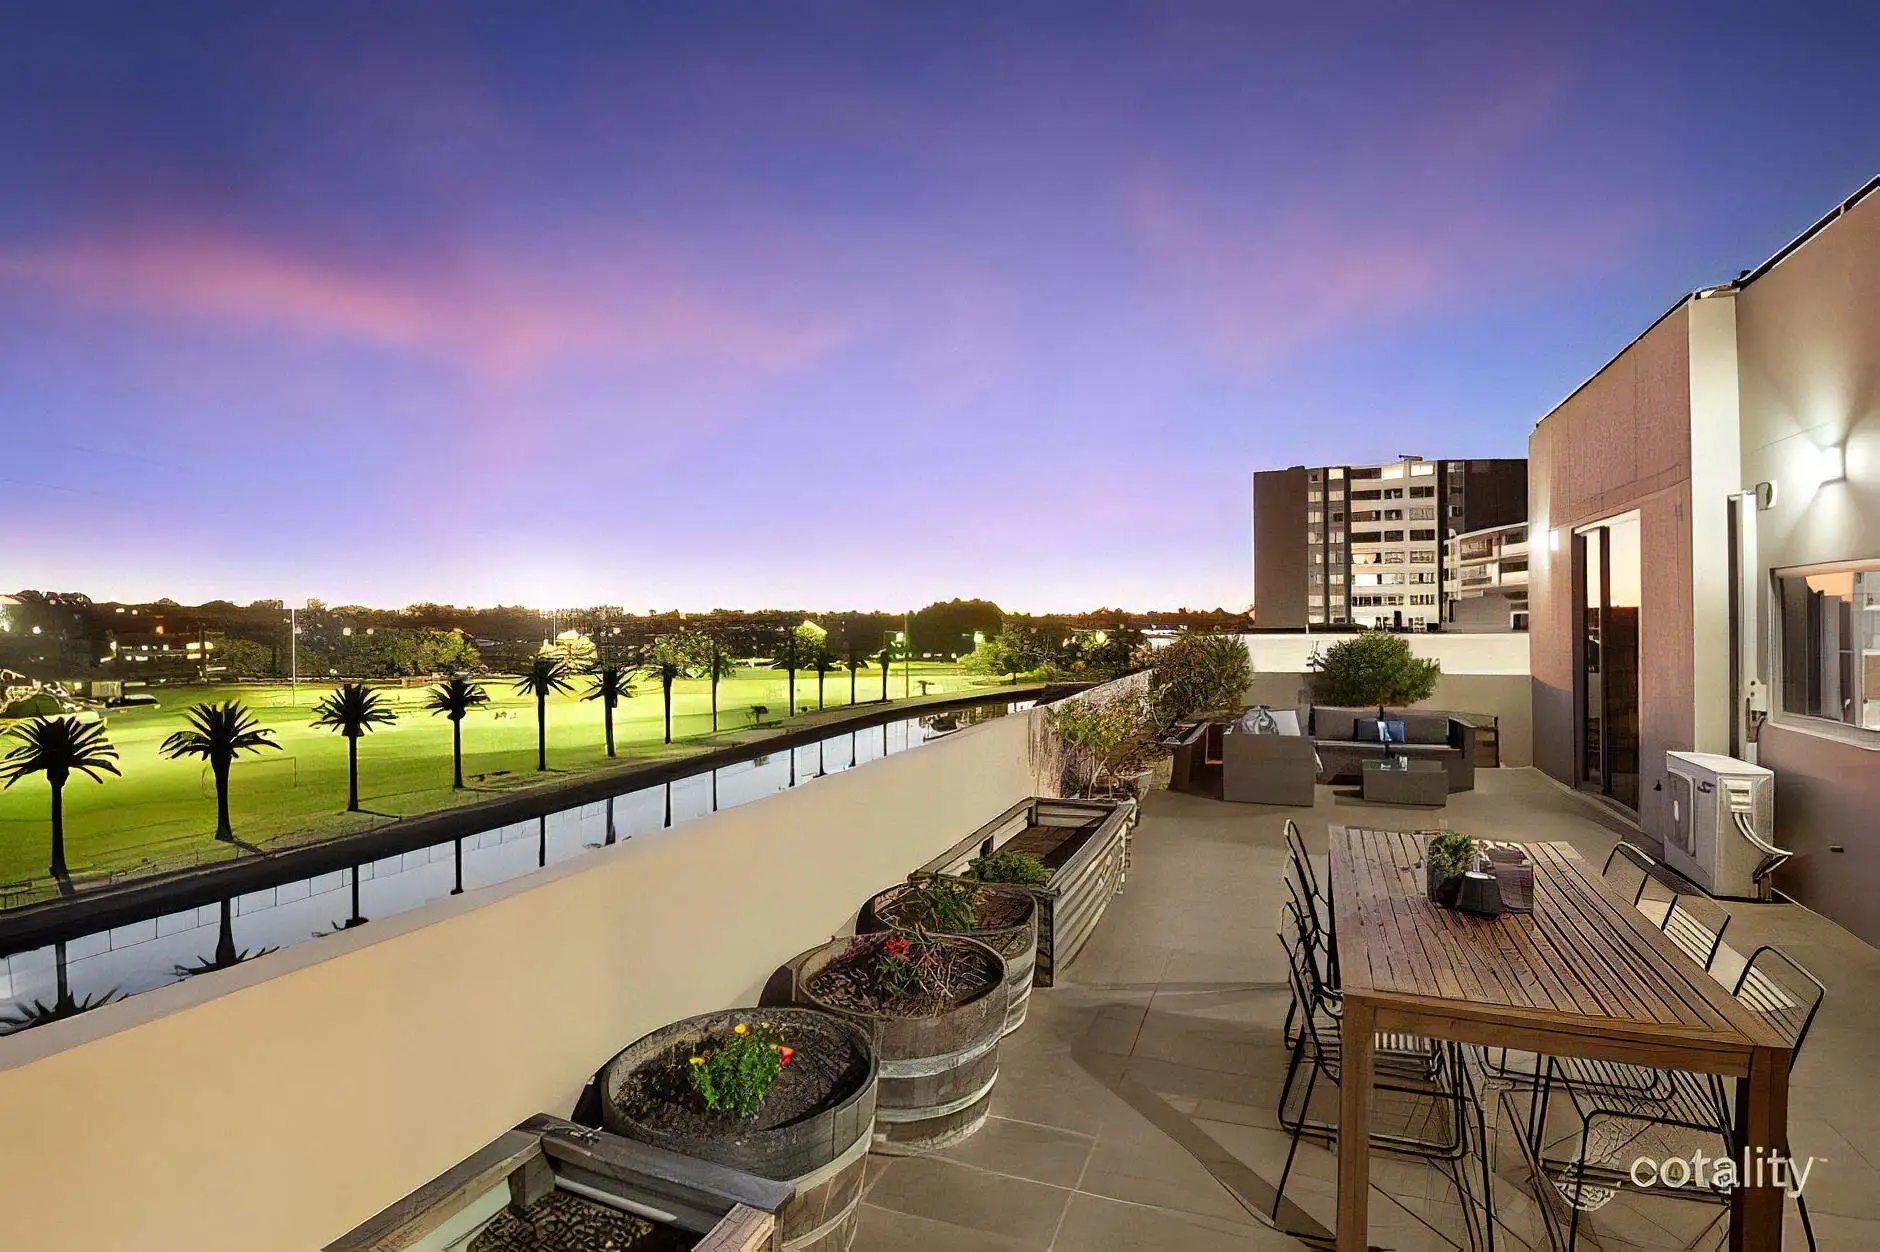
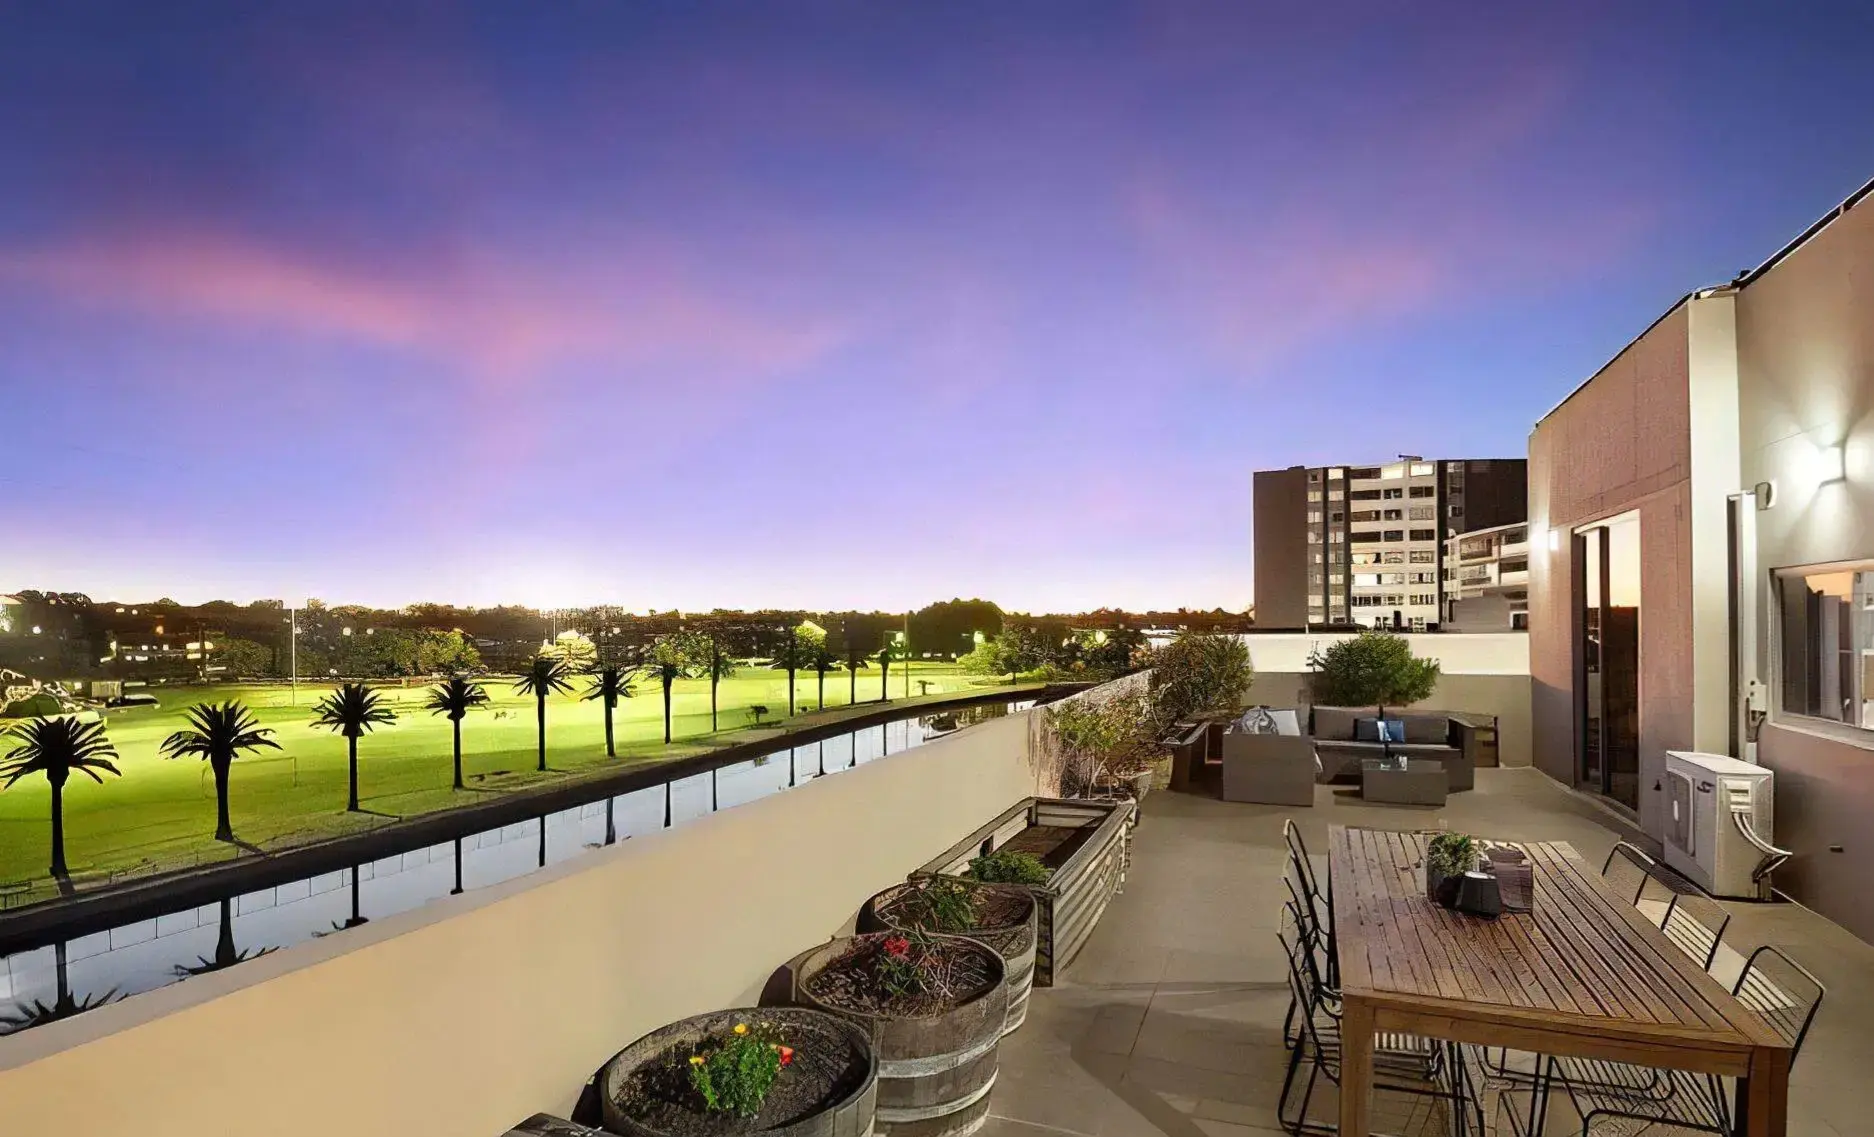
Change images, Remove watermark and remove extra service text

diff --git a/src/components/ContactHero.css b/src/components/ContactHero.css
@@ -1,29 +1,51 @@
 .contact-hero-section {
   width: 100%;
-  /* height: 58vh; */
-  min-height: 60vh;
-  background-image: url("../assets/contact-page/electric-support-contact.WEBP") !important;
-  background-repeat: no-repeat !important;
-  background-position: bottom bottom;
-  background-size: contain !important;
-  background-attachment: fixed;
   position: relative;
-  display: flex;
-  align-items: center;
-  justify-content: center;
-  padding: 8rem 2rem 4rem;
-  color: #fff;
   overflow: hidden;
+  height: 100%;
+}
+
+.contact-hero-image-wrapper {
+  width: 100%;
+  padding-top: 2rem;
+  /* padding-left: 2rem; */
+  /* padding-right: 2rem; */
+  /* padding-bottom: 4rem; */
+  min-height: 50vh;
+  box-sizing: border-box;
+  object-fit:fill !important;
+  background-color: #DCDCDC;
+}
+
+.contact-hero-image-inner {
+  position: relative;
+  width: 100%;
+  display: block;
+}
+
+.contact-hero-image-inner picture {
+  display: block;
+  width: 100%;
+}
+
+.contact-hero-image {
+  display: block;
+  width: 100%;
+  height: auto;
+  max-height: 70vh;
+  object-fit: contain;
+  object-position: bottom center;
 }
 
 .contact-hero-overlay {
   position: absolute;
   top: 0;
   left: 0;
-  width: 100%;
-  height: 92%;
-  background: rgba(0, 0, 0, 0.329);
+  right: 0;
+  bottom: 0;
+  background: rgba(0, 0, 0, 0.137);
   z-index: 1;
+  pointer-events: none;
 }
 
 .contact-hero-content {
@@ -65,13 +87,15 @@
 }
 
 @media (max-width: 768px) {
-  .contact-hero-section {
-    min-height: 70vh;
-    padding: 6rem 1.5rem 3rem;
-    background-image: url("../assets/contact-page/electric-support-contact.WEBP") !important;
-    background-size: cover !important;
-    background-position: center center;
-    background-attachment: scroll;
+  .contact-hero-image-wrapper {
+    min-height: 50vh;
+    /* padding: 6rem 1.5rem 3rem; */
+  }
+
+  .contact-hero-image {
+    max-height: 65vh;
+    object-fit: cover;
+    object-position: center center;
   }
 
   .contact-hero-content {
@@ -93,13 +117,15 @@
 }
 
 @media (max-width: 480px) {
-  .contact-hero-section {
-    min-height: 75vh;
-    padding: 5rem 1rem 2.5rem;
-    background-image: url("../assets/contact-page/electric-support-contact.WEBP") !important;
-    background-size: cover !important;
-    background-position: center center;
-    background-attachment: scroll;
+  .contact-hero-image-wrapper {
+    min-height: 50vh;
+    padding-top: 5rem;
+  }
+
+  .contact-hero-image {
+    max-height: 60vh;
+    object-fit: cover;
+    object-position: center center;
   }
 
   .contact-hero-content {

diff --git a/src/components/ContactHero.jsx b/src/components/ContactHero.jsx
@@ -1,17 +1,26 @@
 import React from 'react';
 import './ContactHero.css';
+import heroImage from '../assets/contact-page/electric-support-contact.WEBP';
+import heroImageMobile from '../assets/contact-page/electric-contact-mobile.png';
 
 const ContactHero = () => {
   return (
     <section className="contact-hero-section">
-      <div className="contact-hero-overlay"></div>
-      <div className="contact-hero-content">
-        <h1 className="contact-hero-title">Get In Touch</h1>
-        <p className="contact-hero-subtitle">We're Here to Help with Your Electrical & Smart Home Needs</p>
-        <p className="contact-hero-description">
-          Whether you need electrical work, smart home installation, or security systems, our team is ready to assist. 
-          Reach out today for a free consultation and quote.
-        </p>
+      <div className="contact-hero-image-wrapper">
+        <div className="contact-hero-image-inner">
+          <picture>
+            <source
+              media="(max-width: 768px)"
+              srcSet={heroImageMobile}
+            />
+            <img
+              src={heroImage}
+              alt="NXTGEN Electrical - Contact us"
+              className="contact-hero-image"
+            />
+          </picture>
+          <div className="contact-hero-overlay" aria-hidden="true" />
+        </div>
       </div>
     </section>
   );

diff --git a/src/components/RecentSwitchboardUpgrade.js b/src/components/RecentSwitchboardUpgrade.js
@@ -9,13 +9,13 @@ import Slider from "react-slick";
 import old1 from "../assets/upn/upn1.WEBP";
 import old2 from "../assets/upn/upn2.WEBP";
 import old3 from "../assets/upn/upn3.WEBP";
-import old4 from "../assets/upn/upn4.webp";
+import old4 from "../assets/upn/upn4.WEBP";
 
 // New (Upgraded) Images
-import new1 from "../assets/upd/UPG1.WEBP";
-import new2 from "../assets/upd/UPG2.WEBP";
-import new3 from "../assets/upd/UPG3.WEBP";
-import new4 from "../assets/upd/UPG4.WEBP";
+import new1 from "../assets/upd/UPG1(1).WEBP";
+import new2 from "../assets/upd/UPG2(1).WEBP";
+import new3 from "../assets/upd/UPG3(1).WEBP";
+import new4 from "../assets/upd/UPG4(1).WEBP";
 
 const RecentSwitchboardUpgrade = () => {
   const [loaded, setLoaded] = useState(false);

diff --git a/src/pages/SwitchBoard.js b/src/pages/SwitchBoard.js
@@ -6,6 +6,7 @@ import Footer from '../components/Footer';
 import SEO from '../components/SEO';
 import SwitchBoardDescription from '../components/SwitchBoardDescription';
 import SwitchBoardContent from '../components/SwitchBoardContent';
+import RecentSwitchboardUpgrade from '../components/RecentSwitchboardUpgrade';
 
 const SwitchBoard = () => {
   return (
@@ -20,6 +21,7 @@ const SwitchBoard = () => {
       <Navbar/>
       <SwitchBoardDescription/>
       <SwitchBoardContent/>
+      <RecentSwitchboardUpgrade/>
       <Footer/>
     </div>
   );

diff --git a/src/components/ServicesData.js b/src/components/ServicesData.js
@@ -98,9 +98,9 @@ const ServicesData = ({ isExiting }) => {
         </div>
 
         {/* Main Services Title */}
-        <div className="services-main-title">
+        {/* <div className="services-main-title">
           <h2>Our Main Services</h2>
-        </div>
+        </div> */}
 
         {/* Content Section */}
         {!isMobile ? (

diff --git a/src/pages/OurServices.css b/src/pages/OurServices.css
@@ -6,7 +6,7 @@
 }
 
 #OurServices{
-    background: url(../assets/nzxtgen-smart-home-solutions.jpg);
+    background: url(../assets/past/servicebg.WEBP);
     
 }
 .services-section-1 {

diff --git a/src/pages/city/cityLayout.css b/src/pages/city/cityLayout.css
@@ -858,7 +858,7 @@
   }
 
   .canterbury-hero-inner {
-    padding: 3rem 1.5rem;
+    padding: 6rem 1.5rem;
   }
 
   .canterbury-hero h1 {
